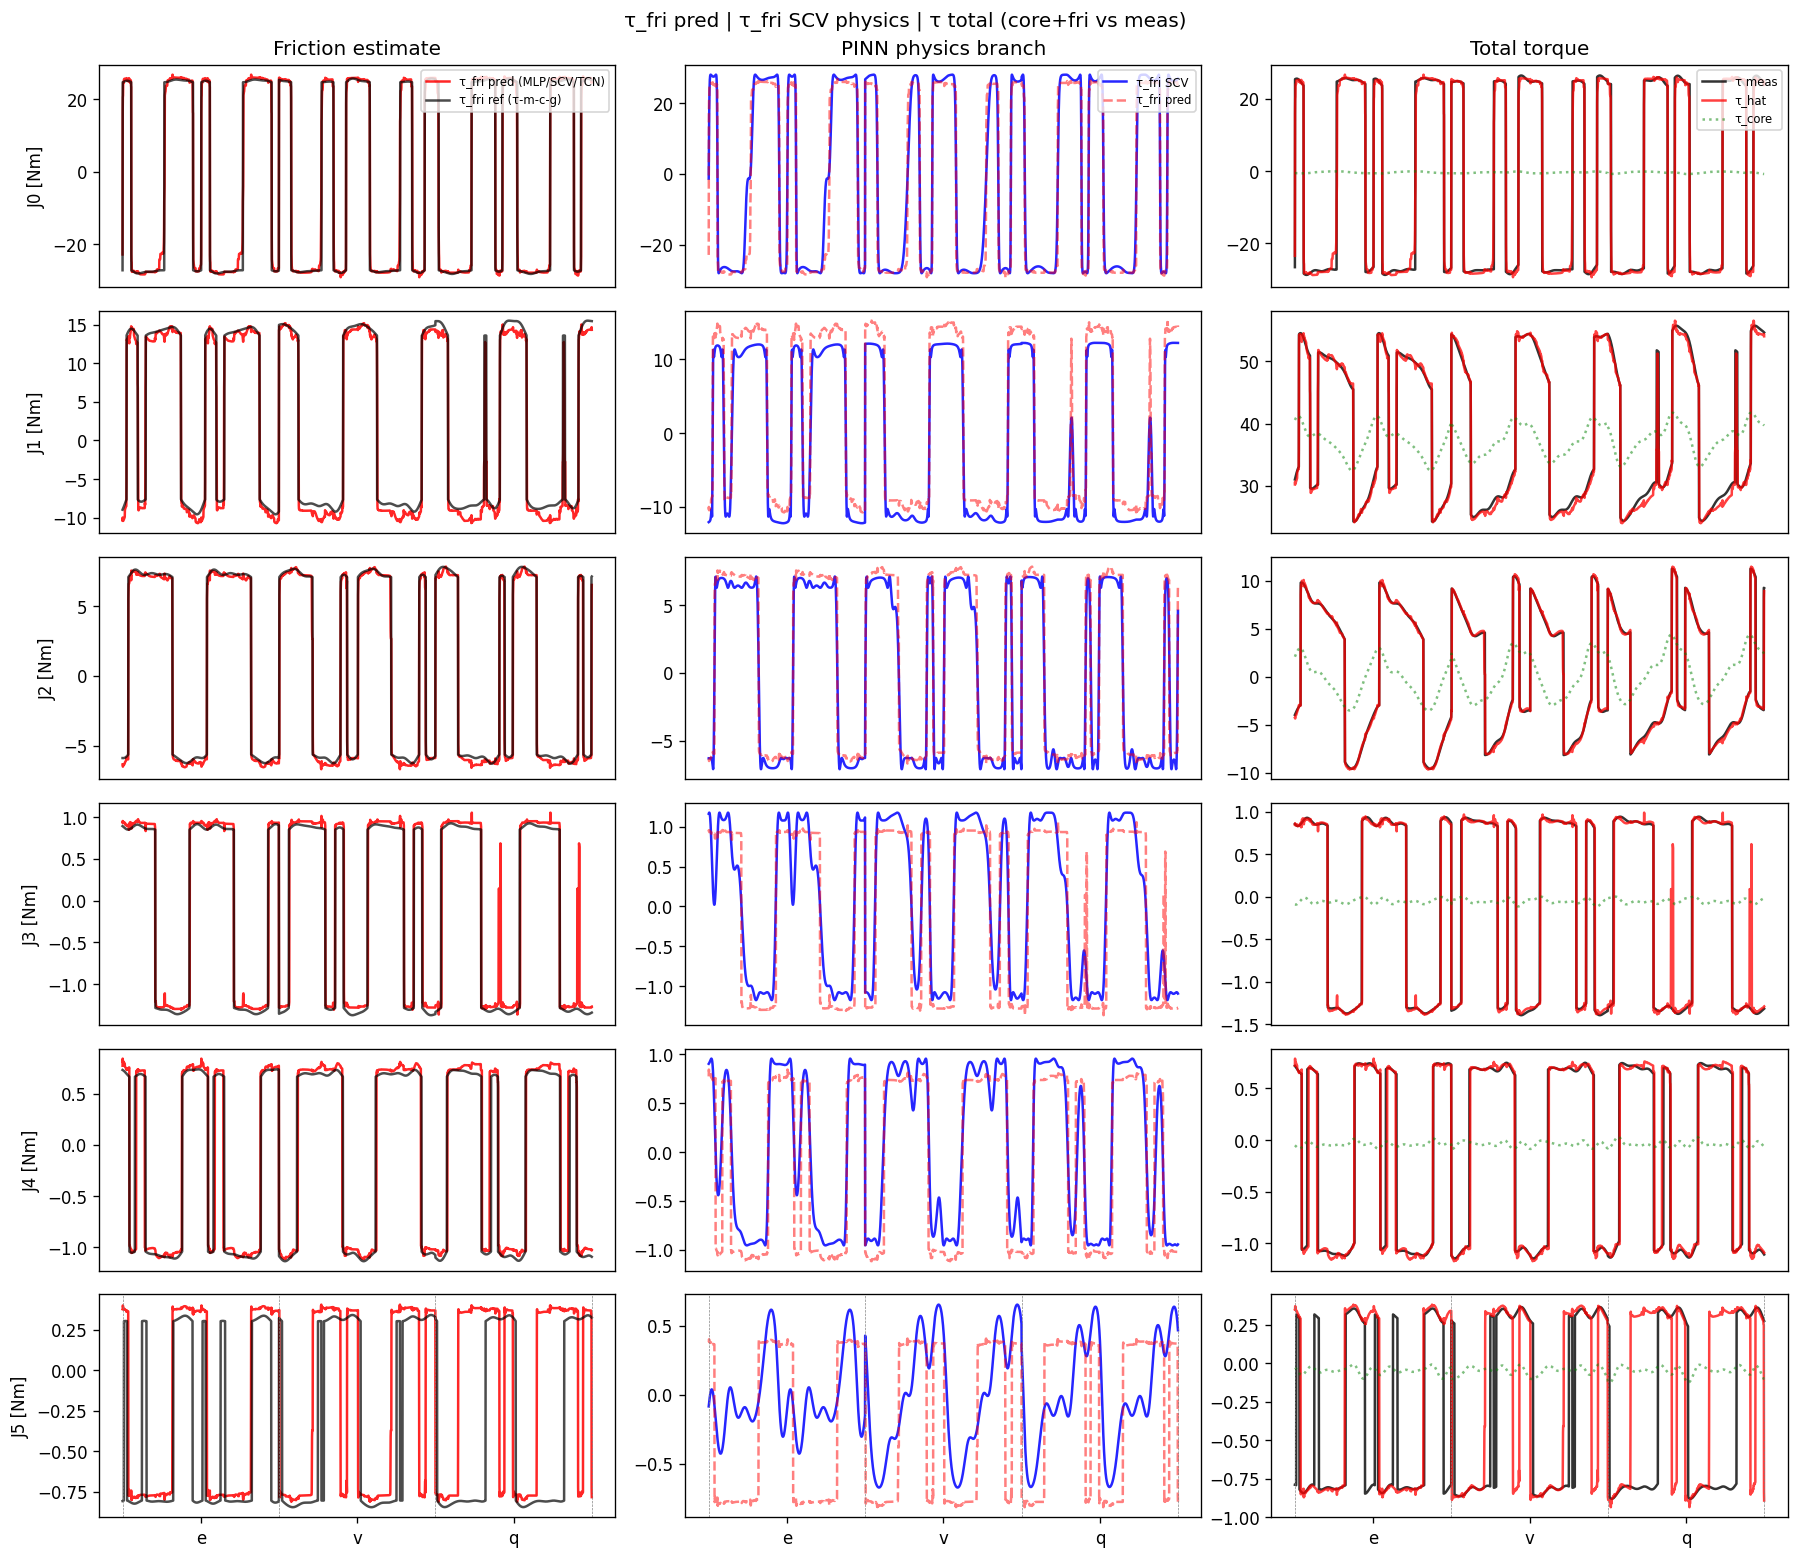
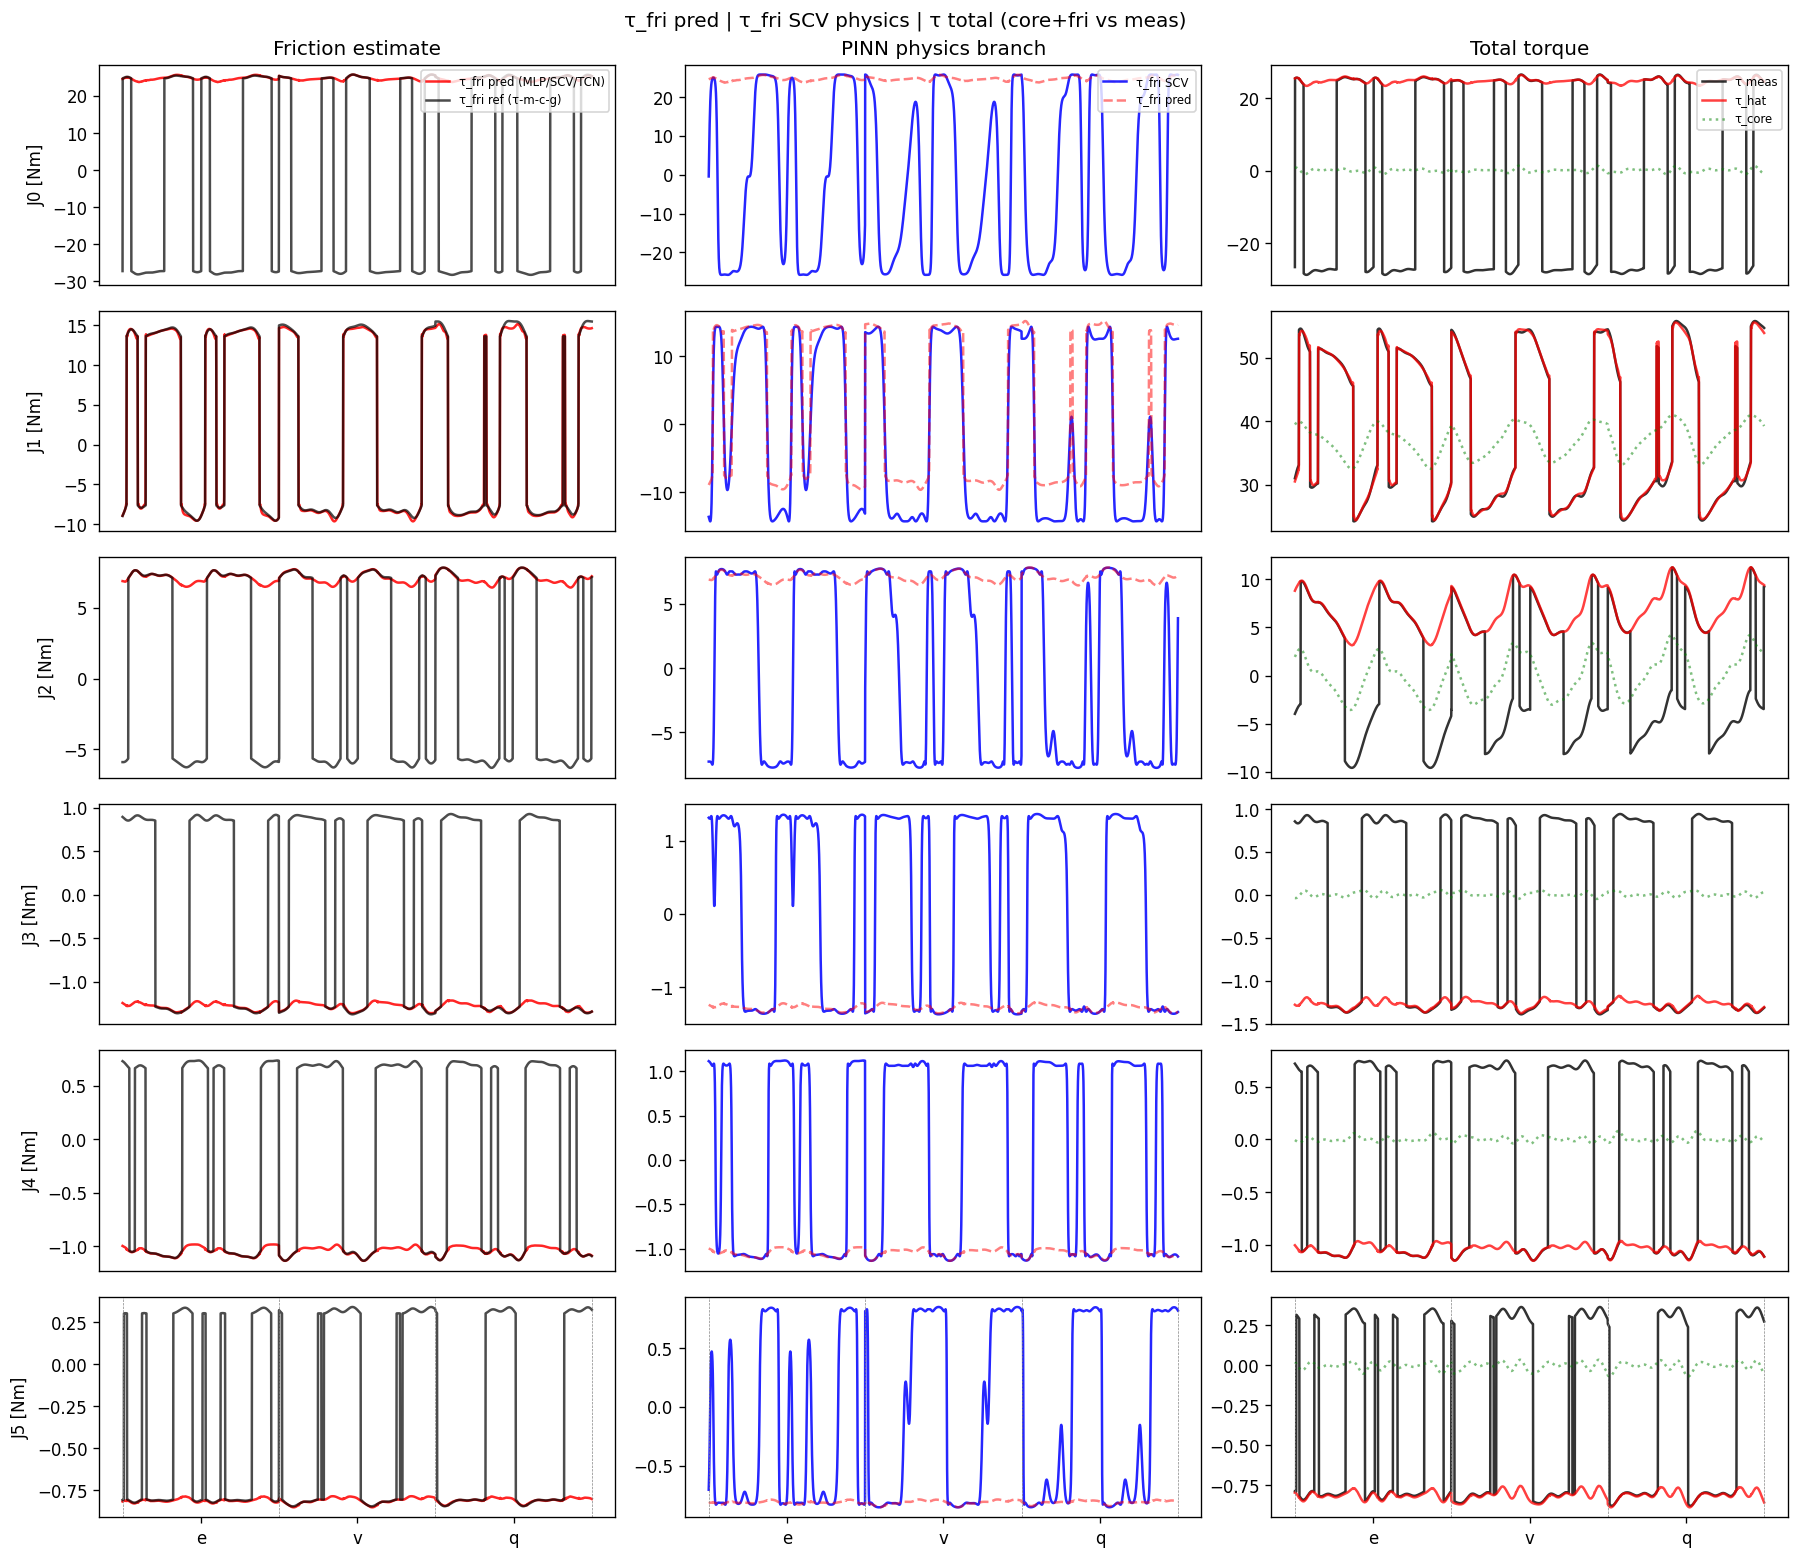
摩擦loss添加smape权重

diff --git a/examples/robot_train.py b/examples/robot_train.py
@@ -35,6 +35,7 @@ from RobotDynamics.DeLaN import load_dataset, suggest_hyper, torque_loss
 from RobotDynamics.FrictionModule import (
     build_mysteric_tensors,
     friction_pinn_loss,
+    friction_supervised_loss,
     load_pickle_trajectories,
     mysteric_losses,
     pickle_has_mcg_decomposition,
@@ -64,6 +65,8 @@ def _checkpoint_payload(
         "friction_loss_weight": args.friction_loss_weight,
         "energy_loss": args.energy_loss,
         "tau_loss": args.tau_loss,
+        "fri_loss": args.fri_loss,
+        "smape_eps": args.smape_eps,
         "data_path": str(args.data.resolve()),
     }
 
@@ -118,10 +121,9 @@ def _parse_args() -> argparse.Namespace:
     p.add_argument(
         "--friction-loss-weight",
         type=float,
-        default=0.01,
-        help="总损失中摩擦项系数: loss = l_tau + w_fri * l_fri。"
-        "SMAPE 力矩项 ~O(1)，MSE 摩擦项常为 O(10~100)，默认 0.01；"
-        "可设 0 关闭摩擦项（仅 l_tau）。",
+        default=1.0,
+        help="总损失: loss = l_tau + w_fri * l_fri（默认 1.0）。"
+        "l_tau 与 l_fri 均用 SMAPE 时量级相近；若 --fri-loss mse 仍很大可降到 0.01~0.1。",
     )
     p.add_argument("--energy-loss", action="store_true", help="总力矩 + 刚体能量守恒")
     p.add_argument(
@@ -129,6 +131,12 @@ def _parse_args() -> argparse.Namespace:
         choices=("mse", "smape"),
         default="smape",
         help="总力矩监督（多关节推荐 smape）",
+    )
+    p.add_argument(
+        "--fri-loss",
+        choices=("mse", "smape"),
+        default="smape",
+        help="摩擦监督与 PINN 物理项（多关节/小力矩关节推荐 smape，与 --tau-loss 独立可选）",
     )
     p.add_argument("--smape-eps", type=float, default=1e-3)
     p.add_argument("-m", nargs="?", const=0, default=0, type=int, help="保存 checkpoint")
@@ -203,6 +211,7 @@ def main() -> None:
     print(
         f"device={device}  n_dof={n_dof}  friction={args.friction_backend}  "
         f"λ_phys={args.lambda_physics}  w_fri={w_fri}  "
+        f"tau_loss={args.tau_loss}  fri_loss={args.fri_loss}  "
         f"train N={N}  test N={test_qp.shape[0]}"
     )
 
@@ -244,9 +253,16 @@ def main() -> None:
                         tau_phys,
                         lambda_physics=args.lambda_physics,
                         supervise_friction=supervise_fri,
+                        fri_loss=args.fri_loss,
+                        smape_eps=args.smape_eps,
                     )
                 elif supervise_fri:
-                    lf = torch.mean((tau_fri - tfb) ** 2)
+                    lf = friction_supervised_loss(
+                        tau_fri,
+                        tfb,
+                        args.fri_loss,
+                        smape_eps=args.smape_eps,
+                    )
 
                 ltau = torque_loss(tau_hat, taub, args.tau_loss, smape_eps=args.smape_eps)
                 loss = ltau + w_fri * lf
@@ -292,8 +308,12 @@ def main() -> None:
                 )
                 if epoch == 1 and w_fri > 0 and lf_m > 10 * max(lt_m, 1e-6):
                     print(
-                        "  提示: 未加权 l_fri 远大于 l_tau（量纲不同：SMAPE vs MSE）。"
-                        "可减小 --friction-loss-weight 或 --friction-label none。"
+                        "  提示: l_fri 远大于 l_tau，可减小 --friction-loss-weight，"
+                        "或确认 --fri-loss smape（与 --tau-loss 一致）。"
+                    )
+                elif epoch == 1 and w_fri < 0.05 and lf_m > 1e-6:
+                    print(
+                        "  提示: w_fri 过小，摩擦项对总损失贡献弱；SMAPE 摩擦下建议 --friction-loss-weight 1.0。"
                     )
 
     except KeyboardInterrupt:

diff --git a/RobotDynamics/FrictionModule/losses.py b/RobotDynamics/FrictionModule/losses.py
@@ -1,5 +1,7 @@
 """
 摩擦 PINN 损失（Hu 等 Eq. (6)）及 Mysteric 总损失辅助。
+
+多关节 / 小力矩关节与总力矩一致，推荐 ``fri_loss='smape'``（同 DeLaN ``torque_loss``）。
 """
 
 from __future__ import annotations
@@ -7,6 +9,19 @@ from __future__ import annotations
 from typing import Tuple
 
 import torch
+
+from ..DeLaN.losses import torque_loss
+
+
+def friction_supervised_loss(
+    tau_fri_pred: torch.Tensor,
+    tau_fri_target: torch.Tensor,
+    kind: str = "smape",
+    *,
+    smape_eps: float = 1e-3,
+) -> torch.Tensor:
+    """单条摩擦监督：MSE 或 SMAPE。"""
+    return torque_loss(tau_fri_pred, tau_fri_target, kind, smape_eps=smape_eps)
 
 
 def friction_pinn_loss(
@@ -16,16 +31,26 @@ def friction_pinn_loss(
     *,
     lambda_physics: float = 0.5,
     supervise_friction: bool = True,
+    fri_loss: str = "smape",
+    smape_eps: float = 1e-3,
 ) -> Tuple[torch.Tensor, torch.Tensor, torch.Tensor]:
     """
-    L = (1-λ) mean((τ_pred - τ_true)²) + λ mean((τ_pred - τ_physics)²)
+    Hu 等 Eq. (6)，数据项与物理项均可用 SMAPE::
 
-    ``supervise_friction=False``：无摩擦真值时仅 ``L = λ mean((τ_pred - τ_physics)²)``。
+        L = (1-λ) loss(τ_pred, τ_true) + λ loss(τ_pred, τ_physics)
+
+    ``loss`` 为 ``mse`` 或 ``smape``（``fri_loss``）。
+
+    ``supervise_friction=False``：无摩擦真值时仅 ``L = λ loss(τ_pred, τ_physics)``。
     """
     lam = float(lambda_physics)
-    l_phys = torch.mean((tau_fri_pred - tau_fri_physics) ** 2)
+    l_phys = torque_loss(
+        tau_fri_pred, tau_fri_physics, fri_loss, smape_eps=smape_eps
+    )
     if supervise_friction:
-        l_data = torch.mean((tau_fri_pred - tau_fri_target) ** 2)
+        l_data = torque_loss(
+            tau_fri_pred, tau_fri_target, fri_loss, smape_eps=smape_eps
+        )
         l_total = (1.0 - lam) * l_data + lam * l_phys
     else:
         l_data = torch.zeros((), device=tau_fri_pred.device, dtype=tau_fri_pred.dtype)

diff --git a/tests/test_friction_loss.py b/tests/test_friction_loss.py
@@ -1,0 +1,23 @@
+import torch
+
+from RobotDynamics.FrictionModule import friction_pinn_loss, friction_supervised_loss
+
+
+def test_friction_smape_bounded() -> None:
+    pred = torch.tensor([[0.1, 0.0], [2.0, -0.5]])
+    target = torch.tensor([[0.2, 0.1], [1.5, -0.3]])
+    s = friction_supervised_loss(pred, target, "smape", smape_eps=1e-3)
+    m = friction_supervised_loss(pred, target, "mse")
+    assert 0.0 < float(s) < 2.0
+    assert float(m) > 0.0
+
+
+def test_friction_pinn_smape() -> None:
+    pred = torch.randn(8, 6)
+    target = torch.randn(8, 6)
+    phys = torch.randn(8, 6)
+    total, l_data, l_phys = friction_pinn_loss(
+        pred, target, phys, lambda_physics=0.5, fri_loss="smape"
+    )
+    assert total.shape == ()
+    assert l_data.shape == l_phys.shape == ()

diff --git a/examples/synthetic_train.py b/examples/synthetic_train.py
@@ -22,7 +22,12 @@ ROOT = Path(__file__).resolve().parents[1]
 if str(ROOT) not in sys.path:
     sys.path.insert(0, str(ROOT))
 
-from RobotDynamics.FrictionModule import friction_pinn_loss, mysteric_losses, simulate_2dof_inverse_dynamics
+from RobotDynamics.FrictionModule import (
+    friction_pinn_loss,
+    friction_supervised_loss,
+    mysteric_losses,
+    simulate_2dof_inverse_dynamics,
+)
 from RobotDynamics.MystericNet import MystericNet
 
 
@@ -54,6 +59,13 @@ def main() -> None:
         default="tcn",
     )
     p.add_argument("--lambda-physics", type=float, default=0.5)
+    p.add_argument(
+        "--fri-loss",
+        choices=("mse", "smape"),
+        default="smape",
+        help="摩擦监督与 PINN 物理项",
+    )
+    p.add_argument("--smape-eps", type=float, default=1e-3)
     args = p.parse_args()
 
     args.save_dir.mkdir(parents=True, exist_ok=True)
@@ -102,6 +114,8 @@ def main() -> None:
                     tau_fri_true,
                     tau_phys,
                     lambda_physics=args.lambda_physics,
+                    fri_loss=args.fri_loss,
+                    smape_eps=args.smape_eps,
                 )
             else:
                 lf = torch.zeros((), device=device, dtype=qb.dtype)

diff --git a/RobotDynamics/FrictionModule/__init__.py b/RobotDynamics/FrictionModule/__init__.py
@@ -5,7 +5,7 @@ FrictionModule：关节摩擦建模（TCN / Stribeck SCV / PINN）。
 """
 
 from .energy_loss import mysteric_losses
-from .losses import friction_pinn_loss
+from .losses import friction_pinn_loss, friction_supervised_loss
 from .sequence_data import (
     build_mysteric_tensors,
     load_pickle_trajectories,
@@ -28,6 +28,7 @@ __all__ = [
     "cv_torque",
     "scv_torque",
     "friction_pinn_loss",
+    "friction_supervised_loss",
     "mysteric_losses",
     "build_windows",
     "simulate_2dof_inverse_dynamics",

diff --git a/README.md b/README.md
@@ -224,13 +224,14 @@ python examples/robot_train.py \
 
 \[
 \mathcal{L} = l_\tau + w_{\text{fri}}\, l_{\text{fri}} \;+\; [\;l_E\;]
-\quad\text{（默认 } w_{\text{fri}}=0.01\text{，见 \texttt{--friction-loss-weight}）}
+\quad\text{（默认 } w_{\text{fri}}=1.0\text{）}
 \]
 
 | 项 | 何时启用 | 含义 |
 |----|----------|------|
-| \(l_\tau\) | 始终 | 总力矩监督：`--tau-loss smape`（推荐）或 `mse`，对 \(\hat\tau=\tau_{\text{core}}+\hat\tau_{\text{fri}}\) 与测量 \(\tau\) |
-| \(l_{\text{fri}}\) | 数据含 `m,c,g` 分解，或 `stribeck_pinn` / `fo_cascade_pinn` | 有分解时 MSE\((\hat\tau_{\text{fri}},\tau-\tau_{\text{rigid}})\)；PINN 时为 \((1-\lambda)\) 数据项 \(+\lambda\) SCV 物理项（`--lambda-physics`） |
+| \(l_\tau\) | 始终 | `--tau-loss smape`（默认）或 `mse` |
+| \(l_{\text{fri}}\) | 有 `m/c/g` 或 PINN 后端 | **`--fri-loss smape`（默认）** 或 `mse`；与 \(l_\tau\) 相同 SMAPE 公式，利于小力矩关节。PINN：数据项 + SCV 项均用 `fri_loss` |
+| \(w_{\text{fri}}\) | `--friction-loss-weight` | SMAPE 摩擦下默认 **1.0**；仅当 `fri-loss mse` 且 \(l_{\text{fri}}\) 很大时用 **0.01~0.1** |
 | \(l_E\) | **仅**加 `--energy-loss` | Yeo 等 Eq. (7) 刚体能量率一致性，实现于 `RobotDynamics/FrictionModule/energy_loss.py` |
 
 能量项（可选）：
@@ -296,22 +297,27 @@ python examples/delan_evaluate.py \
 
 终端会打印 **Torque / Inertial / Coriolis / Gravity / Power** 等 MSE；`n_dof > 2` 时评估图为每个关节一行、四列（τ, m, c, g）。
 
-### 4.2 Mysteric-Net 评估（`robot_train.py` 训练的权重）
+### 4.2 Mysteric-Net 评估（关节摩擦网络 + 总力矩曲线图）
 
 **不要用** `delan_evaluate.py`（那只画 DeLaN 刚体四列图，默认 `figures/delan_performance.png`）。
 
-机械臂 pickle + `mysteric_robot.pt` 请用：
+在项目根目录、已 `conda activate frictionest` 时，生成 **各关节摩擦与总力矩对比图**：
 
 ```bash
+cd /path/to/FrictionEst
+
 python examples/robot_evaluate.py \
   --checkpoint checkpoints/mysteric_robot.pt \
   --data data/robot.pickle \
-  --test-labels e v q
+  --test-labels e v q \
+  --figure-out figures/robot_friction.png
 ```
 
-- **默认输出图**：`figures/robot_friction.png`（各关节 \(\tau\)、\(\tau_{\text{fri}}\) 等对比曲线）
-- 自定义路径：`--figure-out figures/my_robot_friction.png`
-- 弹窗：`--show`
+- **默认输出图**：`figures/robot_friction.png`（省略 `--figure-out` 时同上；含 \(\tau_{\text{fri}}\) 预测、参考分解、PINN 时还有 SCV 列）
+- **自定义路径**：`--figure-out figures/my_robot_friction.png`
+- **弹窗查看**：`--figure-out` 可省略，加 `--show` 不保存只显示
+- **`--seq-len`**：一般省略，从 checkpoint 自动读取（与训练一致，如 30）
+- 终端会打印 `RMSE τ_hat`、`RMSE τ_fri`（有 m/c/g 分解时）及 SCV 参数表（`fo_cascade_pinn` / `stribeck_pinn`）
 
 | checkpoint 来源 | 评估脚本 | 默认图片 |
 |-----------------|----------|----------|